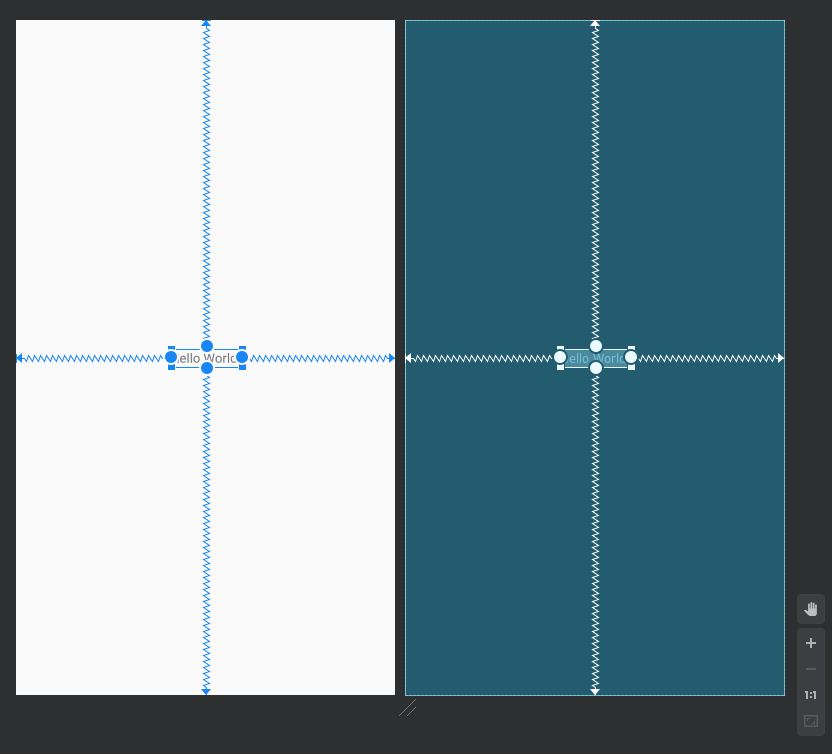
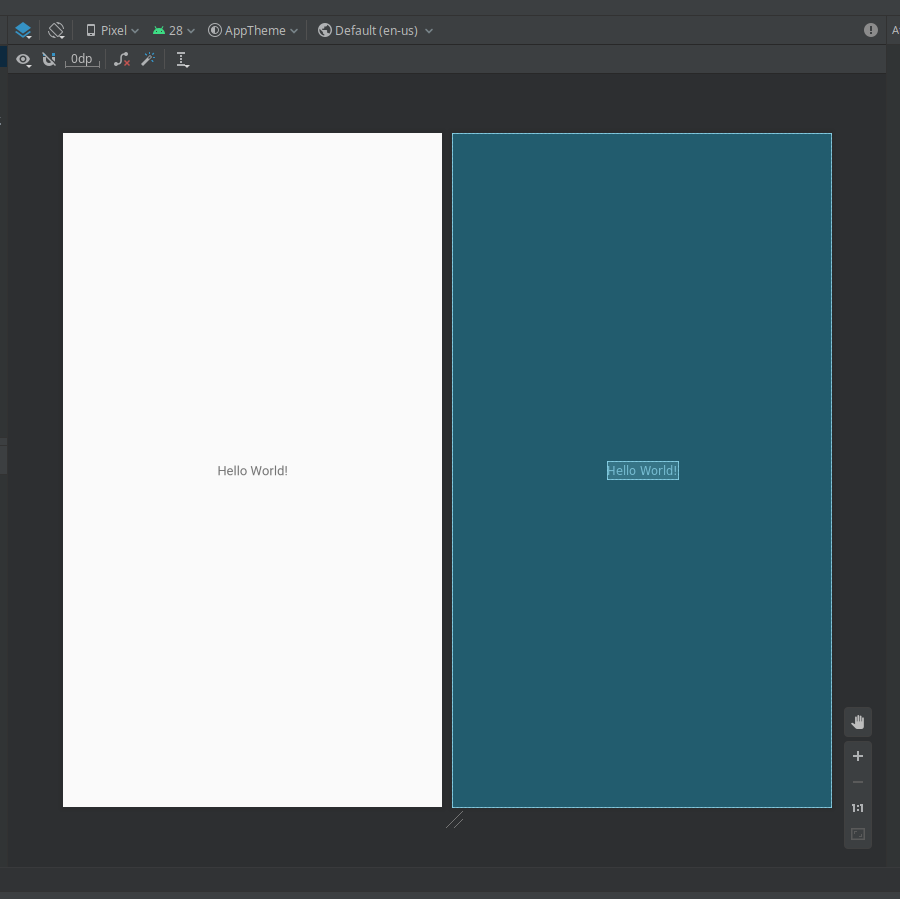
mvvm done

Changed region(s): [[0.0, 0.0, 1.0, 0.9456], [0.9688, 0.9456, 1.0, 0.9761]]

diff --git a/docs/.vuepress/config.js b/docs/.vuepress/config.js
@@ -27,6 +27,7 @@ module.exports = {
                         children: [
                             '/android/weather/',
                             '/android/weather/start/',
+                            '/android/weather/mvvm/',
                         ]
                     },
                 ],

diff --git a/docs/android/weather/mvvm/README.md b/docs/android/weather/mvvm/README.md
@@ -1,0 +1,279 @@
+# MVVM
+
+Short for Model View ViewModel, the MVVM pattern is the default for modern Android applications. It describes the relationship and transfer of data within the application.
+
+## Model
+
+The first M in MVVM, the model describes the raw data that your application needs, and also how to access it. Data from a SQL database, or an external server are examples of model data.
+
+The model code serves as a source for the all the data in the application (with exception to sensor data, or data created by the view itself).
+
+In our app, the model will be forecast data. Eventually we will be pulling this data from the internet, but for now will just mock it up.
+
+Right click the folder containing `MainActivity` and select `New | Kotlin File/Class`. Name it `WeatherModel`, leaving the options as default. That should create a new file next to `MainActivity` called `WeatherModel.kt`. It's contents should look like this.
+
+```kotlin
+package com.example.weatherapp
+
+```
+
+Now we are going to create a [data class](https://kotlinlang.org/docs/reference/data-classes.html) called `WeatherModel` (the same name as the file).
+
+```kotlin
+data class WeatherModel(
+    val temperature: Double
+)
+```
+
+We only have one field in this class: `temperature`. We'll add more later when we start pulling data from the internet. For now this is all we need.
+
+## View
+
+The 2nd letter in MVVM, the view is all the code that deals with the visual aspect of the application. In other words, what the user "views". Activities (such as `MainActivity`), and layouts are part of the view code.
+
+We've already messed with view code when we set the `text` of `temperatureText` in `onCreate`.
+
+## ViewModel
+
+The view model is the last 2 letters of MVVM. It's responsible for requesting data from the model, and providing it to the view. 
+
+Let's create a new file called `WeatherViewModel` in the same way you created `WeatherModel`. In the file you just created, create a class called `WeatherViewModel` that will inherit from `ViewModel`.
+
+```kotlin
+package com.example.weatherapp
+
+import androidx.lifecycle.ViewModel
+
+class WeatherViewModel: ViewModel() {
+}
+```
+
+We can create our `WeatherViewModel` in the `onCreate` of `MainActivity` using the `ViewModels()` delegate function.
+
+```kotlin
+package com.example.weatherapp
+
+import androidx.appcompat.app.AppCompatActivity
+import android.os.Bundle
+// NEW!
+import androidx.activity.viewModels
+import kotlinx.android.synthetic.main.activity_main.*
+
+class MainActivity : AppCompatActivity() {
+
+    override fun onCreate(savedInstanceState: Bundle?) {
+        super.onCreate(savedInstanceState)
+        setContentView(R.layout.activity_main)
+
+        // NEW!
+        val viewModel: WeatherViewModel by viewModels()
+
+        temperatureText.text = "81° F"
+    }
+}
+```
+
+The `by` keyword tells kotlin to delegate the creation of `viewModel` to `viewModels()`.
+
+In order to use `viewModels()`, will need to include it in our project. Open up your `build.gradle (Module: app)`, and in the `dependencies` your going to add a new dependency below all the other dependencies.
+
+```groovy
+dependencies {
+    // ...
+
+    implementation "androidx.activity:activity-ktx:1.1.0"
+}
+```
+
+You might have an error after doing this. The lowest Java version that our Android project supports is 1.6. The `viewModels()` function can only be used on 1.8 and above. We can fix this by adding some code to the `android` block in `build.gradle`.
+
+```groovy
+android {
+    compileSdkVersion 28
+
+    compileOptions {
+        sourceCompatibility JavaVersion.VERSION_1_8
+        targetCompatibility JavaVersion.VERSION_1_8
+    }
+
+    kotlinOptions {
+        jvmTarget = JavaVersion.VERSION_1_8.toString()
+    }
+
+    // ...
+
+}
+```
+
+Right now our `WeatherViewModel` doesn't do anything. We're going to fix that by using `LiveData`.
+
+## LiveData
+
+The [LiveData](https://developer.android.com/topic/libraries/architecture/livedata) class is the lynchpin of the MVVM pattern. View code can `observe()` a `LiveData` object, and whenever the `LiveData` changes, the view will be updated.
+
+Create a function called `getForecast()` in `WeatherViewModel` that returns a `LiveData` object with an inner type of our `WeatherModel`.
+
+```kotlin
+package com.example.weatherapp
+
+import androidx.lifecycle.LiveData // NEW!
+import androidx.lifecycle.ViewModel
+
+class WeatherViewModel: ViewModel() {
+    // NEW!
+    fun getForecast(): LiveData<WeatherModel> {
+        
+    }
+}
+```
+
+Inside of `getForecast()`, create a `val` called `result` and set it `=` to a new `MutableLiveData` object with the inner type of `WeatherModel`. Then return that `result`.
+
+```kotlin
+package com.example.weatherapp
+
+import androidx.lifecycle.LiveData
+import androidx.lifecycle.MutableLiveData
+import androidx.lifecycle.ViewModel
+
+class WeatherViewModel: ViewModel() {
+    fun getForecast(): LiveData<WeatherModel> {
+        // NEW!
+        val result = MutableLiveData<WeatherModel>()
+        return result
+    }
+}
+```
+
+The `MutableLiveData` class inherits `LiveData`, so we can return it from `getForecast()` with no issue.
+
+Now we're going to `observe()` our `LiveData` that we get from `getForecast()` inside of `MainActivity`.
+
+```kotlin
+package com.example.weatherapp
+
+import androidx.appcompat.app.AppCompatActivity
+import android.os.Bundle
+import androidx.activity.viewModels
+import androidx.lifecycle.Observer // NEW!
+import kotlinx.android.synthetic.main.activity_main.*
+
+class MainActivity : AppCompatActivity() {
+
+    override fun onCreate(savedInstanceState: Bundle?) {
+        super.onCreate(savedInstanceState)
+        setContentView(R.layout.activity_main)
+
+        val viewModel: WeatherViewModel by viewModels()
+        // NEW!
+        viewModel.getForecast()
+            .observe(this, Observer {
+            
+            })
+
+        temperatureText.text = "81° F"
+    }
+}
+```
+
+The `observe()` method takes 2 parameters.
+1. The `LifeCycleOwner` of the `LiveData`. Our `MainActivity` extends `LifeCycleOwner`, so we can use the `this` keyword to pass it in.
+2. An `Observer`. This is an object that will be called when the `LiveData` gets updated. We create an `Observer` with the code
+
+```kotlin
+Observer {
+
+}
+```
+
+Any code between the curly braces will be executed when the `LiveData` updates.
+
+We want to update our `temperatureText` when we get new forecast data. Let's move it into the `Observer {}` block.
+
+```kotlin
+// ...
+
+class MainActivity : AppCompatActivity() {
+
+    override fun onCreate(savedInstanceState: Bundle?) {
+        // ...
+
+        val viewModel: WeatherViewModel by viewModels()
+        viewModel.getForecast()
+            .observe(this, Observer {
+                temperatureText.text = "81° F"
+            })
+    }
+}
+```
+
+## Updating LiveData
+
+If we were to run our app now, we wouldn't see anything. That's because we're creating our `LiveData` `result` in `getForecast()`, but we aren't doing anything with it. Let's change that.
+
+Update `getForecast()` to set the `value` on `result` before we return `result`.
+
+```kotlin
+// ...
+
+class WeatherViewModel: ViewModel() {
+    fun getForecast(): LiveData<WeatherModel> {
+        val result = MutableLiveData<WeatherModel>()
+        result.value = WeatherModel(82.0) // NEW!
+        return result
+    }
+}
+```
+
+We now need to update our `Observer` to use the value from the `LiveData`.
+
+```kotlin
+// In onCreate
+viewModel.getForecast()
+    .observe(this, Observer {
+        temperatureText.text = "${it.temperature}° F"
+    })
+```
+
+The `it` keyword is the value from the `LiveData` we are observing. The `Observer` is using a [lambda](https://kotlinlang.org/docs/reference/lambdas.html) which is why we have access to `it`. If we wanted to use a name other than it we could do
+
+```kotlin
+//         vvvvvvvvvvv
+Observer { forecast ->
+    temperatureText.text = "${forecast.temperature}° F"
+}
+```
+
+It's up to preference, but for sake of clarity I'm going to use `forecast` instead of `it`.
+
+The code up to this point should look something like the following.
+
+```kotlin
+package com.example.weatherapp
+
+import androidx.appcompat.app.AppCompatActivity
+import android.os.Bundle
+import androidx.activity.viewModels
+import androidx.lifecycle.Observer
+import kotlinx.android.synthetic.main.activity_main.*
+
+class MainActivity : AppCompatActivity() {
+
+    override fun onCreate(savedInstanceState: Bundle?) {
+        super.onCreate(savedInstanceState)
+        setContentView(R.layout.activity_main)
+
+        val viewModel: WeatherViewModel by viewModels()
+        viewModel.getForecast()
+            .observe(this, Observer { forecast ->
+                temperatureText.text = "${forecast.temperature}° F"
+            })
+    }
+}
+```
+
+You should have something like the following on your device.
+
+![](./screenshot-final.png)
+
+Next time we'll discuss getting the devices physical location which we will eventually use to get the actually forecast.

diff --git a/docs/android/weather/start/README.md b/docs/android/weather/start/README.md
@@ -82,19 +82,96 @@ You'll find the `activity_main.xml` file in the `res/layout/` folder. It will lo
 
 The editor is split up into 4 parts
 
-1. This panel shows an approximation of the final design on the left, and a blueprint the shows the underlying structure of the layout on the right. We'll drag components from the `Palette` to here to position our views.
+1. This panel shows an approximation of the final design on the left, and a blueprint the shows the underlying structure of the layout on the right. We'll drag components from the `Palette` to here to position our views. For simplicity sake I'm only going to include the design view. You can change what view you see by clicking the blue layered squares at the top-left of the panel.
  
 ![](./layout3.png)
 
-
 2. On the top left of the editor, you have the `Palette`. This is where you can find all the different types of components (called Views) that you can include in your layouts.
+
+![](./layout4.png)
 
 3. The bottom left of the editor is the `Component Tree`, it shows the hierarchical structure of the layout (aka. what contains what). Currently the root of our layout is a `ConstraitLayout`, and it has one child: a `TextView` with the text `Hello World!`.
 
-![](./layout4.png)
+![](./layout5.png)
 
 4. The right side of the editor is dedicated to the `Attributes` panel. This is where you can customize your views. If we select the `Hello World` box in the design view we can see its properties.
 
     There's a lot going on here, so we won't need to get into all of these options. Feel free to play around with them and see what they do to the design.
 
 ![](./layout2.png)
+
+## Displaying the temperature
+
+To display simple text in a layout, we use a `TextView`. A `TextView` has multiple attributes related to text such as `text`, `contentDescription`, `textAppearance`, and `alpha`.
+
+* The `text` attribute controls what text is actually displayed. We can set our text here, or in the code. There's also another `text` attribute with a wrench (&#128295;) icon next to it. That's the tool text attribute. Basically, a tool attribute is an attribute that will show up in the editor, but not when the app is running. It's useful for seeing how your data would look with real data.
+* The `contentDescription` attribute is for people who can't read well, or partially or completely blind. It's the text that would be read with a screen reader.
+* `textAppearance` controls the style or appearance of the text. This attribute has a little arrow next to it meaning that it contains other attributes: `fontFamily`, `typeface`, `textSize`, `textColor`, just to name a few.
+
+    You can modify these underlying values individually, and/or set the `textAppearance` value itself.
+* `alpha` controls the how transparent the text is. A value of `1.0` is not transparent at all, and a value of `0.0` is fully transparent.
+
+For our purposes, we're only going to be using `text` and `textAppearance`. Select the `Hello, World!` text. Change the `textAppearance` attribute to `@style/TextAppearance.AppCompat.Display4` (you can click the dropdown to select it, or type it in manually).
+
+![](./temperature1.png)
+
+We're going to set the `text` attribute in code so delete the `Hello World!` from `text` and set &#128295;`text` to be `80° F`.
+
+![](./temperature2.png)
+
+## Accessing views through code
+
+Before we can change the `text` in the code. We need some way of identifying our `TextView`. We do that with the `id` attribute. The `id` attribute gives a `View` a name that we can use to access it inside our `MainActivity` as well as other activities. It should be at the top of the list. 
+
+Change the `id` property to `temperatureText`.
+
+![](./code1.png)
+
+Now open up `MainActivity` if it isn't already. We're going to add some new code to `onCreate()`.
+
+```kotlin
+package com.example.weatherapp
+
+import androidx.appcompat.app.AppCompatActivity
+import android.os.Bundle
+
+class MainActivity : AppCompatActivity() {
+
+    override fun onCreate(savedInstanceState: Bundle?) {
+        super.onCreate(savedInstanceState)
+        setContentView(R.layout.activity_main)
+        
+        // NEW CODE WILL GO HERE!
+    }
+}
+```
+
+The value `temperatureText` link to the `TextView` we customized earlier. Adding the following line will change the text in `temperatureText` to be `81° F`.
+
+```kotlin
+temperatureText.text = "81° F"
+```
+
+The `temperatureText` code should turn red. This is because we need to import the ids from `activity_main.xml`. Android Studio should give a pop up asking if you want to import it. Press Alt+Enter will add an import line at the top of the file.
+
+![](./code2.png)
+
+If you don't see the popup, place your cursor in `temperatureText` and after a bit it should pop up. You may see a popup before that allowing you to skip this step.
+
+Your imports should now look like this.
+
+```kotlin
+import androidx.appcompat.app.AppCompatActivity
+import android.os.Bundle
+import kotlinx.android.synthetic.main.activity_main.*
+```
+
+You can run your app now by pressing the green play (&#9654;) button next to the device drop down at the top-right of Android Studio. You can also press Shift+F10 on the keyboard.
+
+![](./code3.png)
+
+Once that's built and installed our your device/emulator. You'll see something like the following.
+
+![](./codeFinal.png)
+
+Next time we'll talk about the MVVM pattern, and using a `ViewModel` to update our views whenever our data changes.
